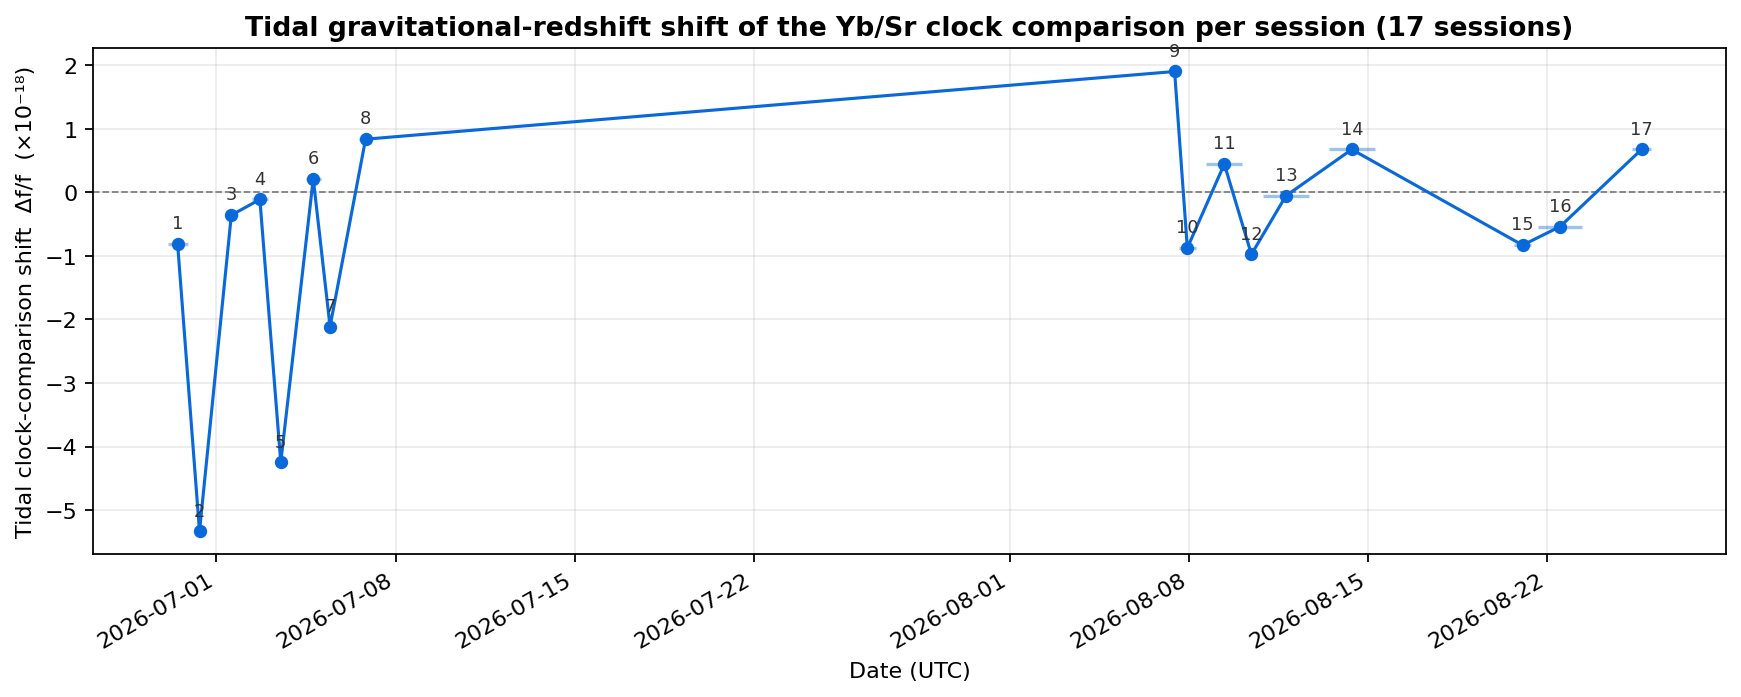
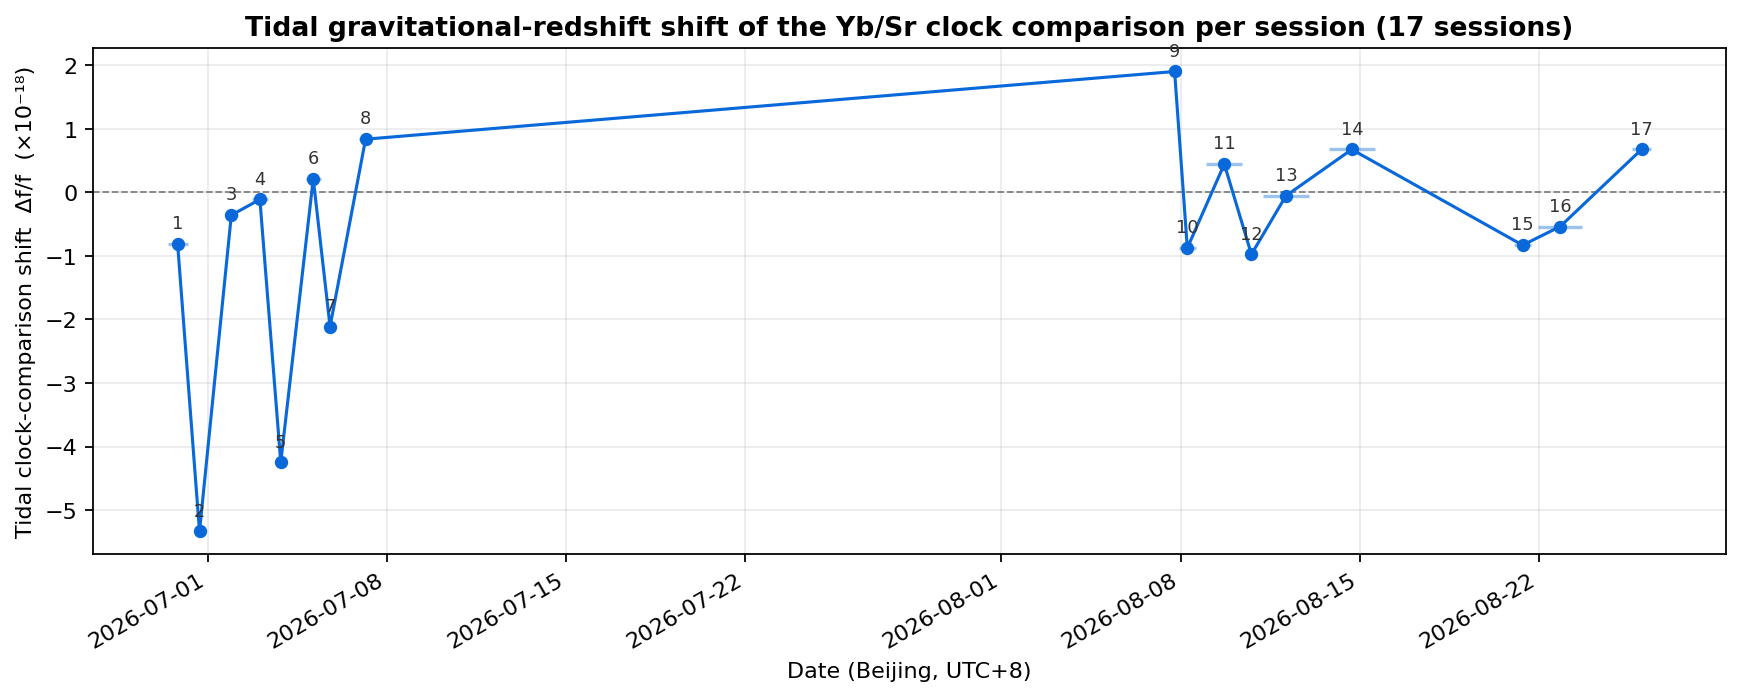
Unify time-zone presentation: report session times in Beijing time (UTC+8)
- clock_tidal_shift.py: output session start/end/midpoint in Beijing time
  (UTC+8) instead of UTC; rename CSV columns start_utc/end_utc/midpoint_utc ->
  start_beijing_utc8/end_beijing_utc8/midpoint_beijing_utc8; x-axis label
  'Date (Beijing, UTC+8)'
- batch_analysis.py: annotate the shared-axis figure x-axis as Beijing UTC+8

Experiment beat timestamps are Beijing time (UTC+8); the tidal CSV is UTC.
Alignment stays subtract-8h (Beijing -> UTC) before interpolating the tide.
Sign-agnostic results unchanged (|z|=5.91, A=-0.46, 14/17 negative).

diff --git a/clock/clock_tidal_shift.py b/clock/clock_tidal_shift.py
@@ -75,19 +75,22 @@ def main() -> int:
 
     records = []
     for index, (start, end) in enumerate(GROUPS, 1):
-        s = np.datetime64(start) - UTC_OFFSET  # Beijing -> UTC
-        e = np.datetime64(end) - UTC_OFFSET    # Beijing -> UTC
-        mask = (timestamps >= s) & (timestamps <= e)
+        start_beijing = np.datetime64(start)
+        end_beijing = np.datetime64(end)
+        # 潮汐 CSV 是 UTC，把北京时窗口减 8h 对齐到 UTC 后再取潮汐均值。
+        s_utc = start_beijing - UTC_OFFSET
+        e_utc = end_beijing - UTC_OFFSET
+        mask = (timestamps >= s_utc) & (timestamps <= e_utc)
         count = int(mask.sum())
         mean_w = float(total[mask].mean())
         frequency_shift = mean_w / C**2  # Δf/f (dimensionless)
-        mid = int((int(s.astype("int64")) + int(e.astype("int64"))) // 2)
+        mid = int((int(start_beijing.astype("int64")) + int(end_beijing.astype("int64"))) // 2)
         midpoint = np.datetime64(mid, "s")
         records.append(
             {
                 "session": index,
-                "start": str(s).replace("T", " "),
-                "end": str(e).replace("T", " "),
+                "start": str(start_beijing).replace("T", " "),
+                "end": str(end_beijing).replace("T", " "),
                 "midpoint": midpoint,
                 "count_minutes": count,
                 "mean_delta_w_m2_s2": mean_w,
@@ -95,7 +98,7 @@ def main() -> int:
             }
         )
 
-    # Write CSV
+    # Write CSV（时间统一按北京时间 UTC+8 呈现）
     OUT_DIR.mkdir(exist_ok=True)
     csv_path = OUT_DIR / "clock_tidal_shift.csv"
     with csv_path.open("w", newline="") as f:
@@ -103,9 +106,9 @@ def main() -> int:
         writer.writerow(
             [
                 "session",
-                "start_utc",
-                "end_utc",
-                "midpoint_utc",
+                "start_beijing_utc8",
+                "end_beijing_utc8",
+                "midpoint_beijing_utc8",
                 "count_minutes",
                 "mean_delta_w_m2_s2",
                 "frequency_shift_dff",
@@ -149,7 +152,7 @@ def main() -> int:
     ax.xaxis.set_major_formatter(mdates.DateFormatter("%Y-%m-%d"))
     ax.xaxis.set_major_locator(mdates.AutoDateLocator(minticks=4, maxticks=10))
     plt.setp(ax.get_xticklabels(), rotation=30, ha="right")
-    ax.set_xlabel("Date (UTC)")
+    ax.set_xlabel("Date (Beijing, UTC+8)")
     ax.set_ylabel("Tidal clock-comparison shift  Δf/f  (×10⁻¹⁸)")
     ax.set_title(
         "Tidal gravitational-redshift shift of the Yb/Sr clock comparison "

diff --git a/clock/segment_analysis/batch_analysis.py b/clock/segment_analysis/batch_analysis.py
@@ -338,6 +338,7 @@ def main() -> int:
             ax.set_visible(False)
         fig.suptitle("1200-s triangular beat vs tidal redshift (Δf/f ×10⁻¹⁸), all segments",
                      fontweight="bold")
+        fig.text(0.5, 0.01, "Time (Beijing, UTC+8)", ha="center", fontsize=9)
         fig.tight_layout(rect=[0, 0, 1, 0.97])
         fig.savefig(OUT_DIR / "batch_shared_axis.png", dpi=150, bbox_inches="tight")
         plt.close(fig)
